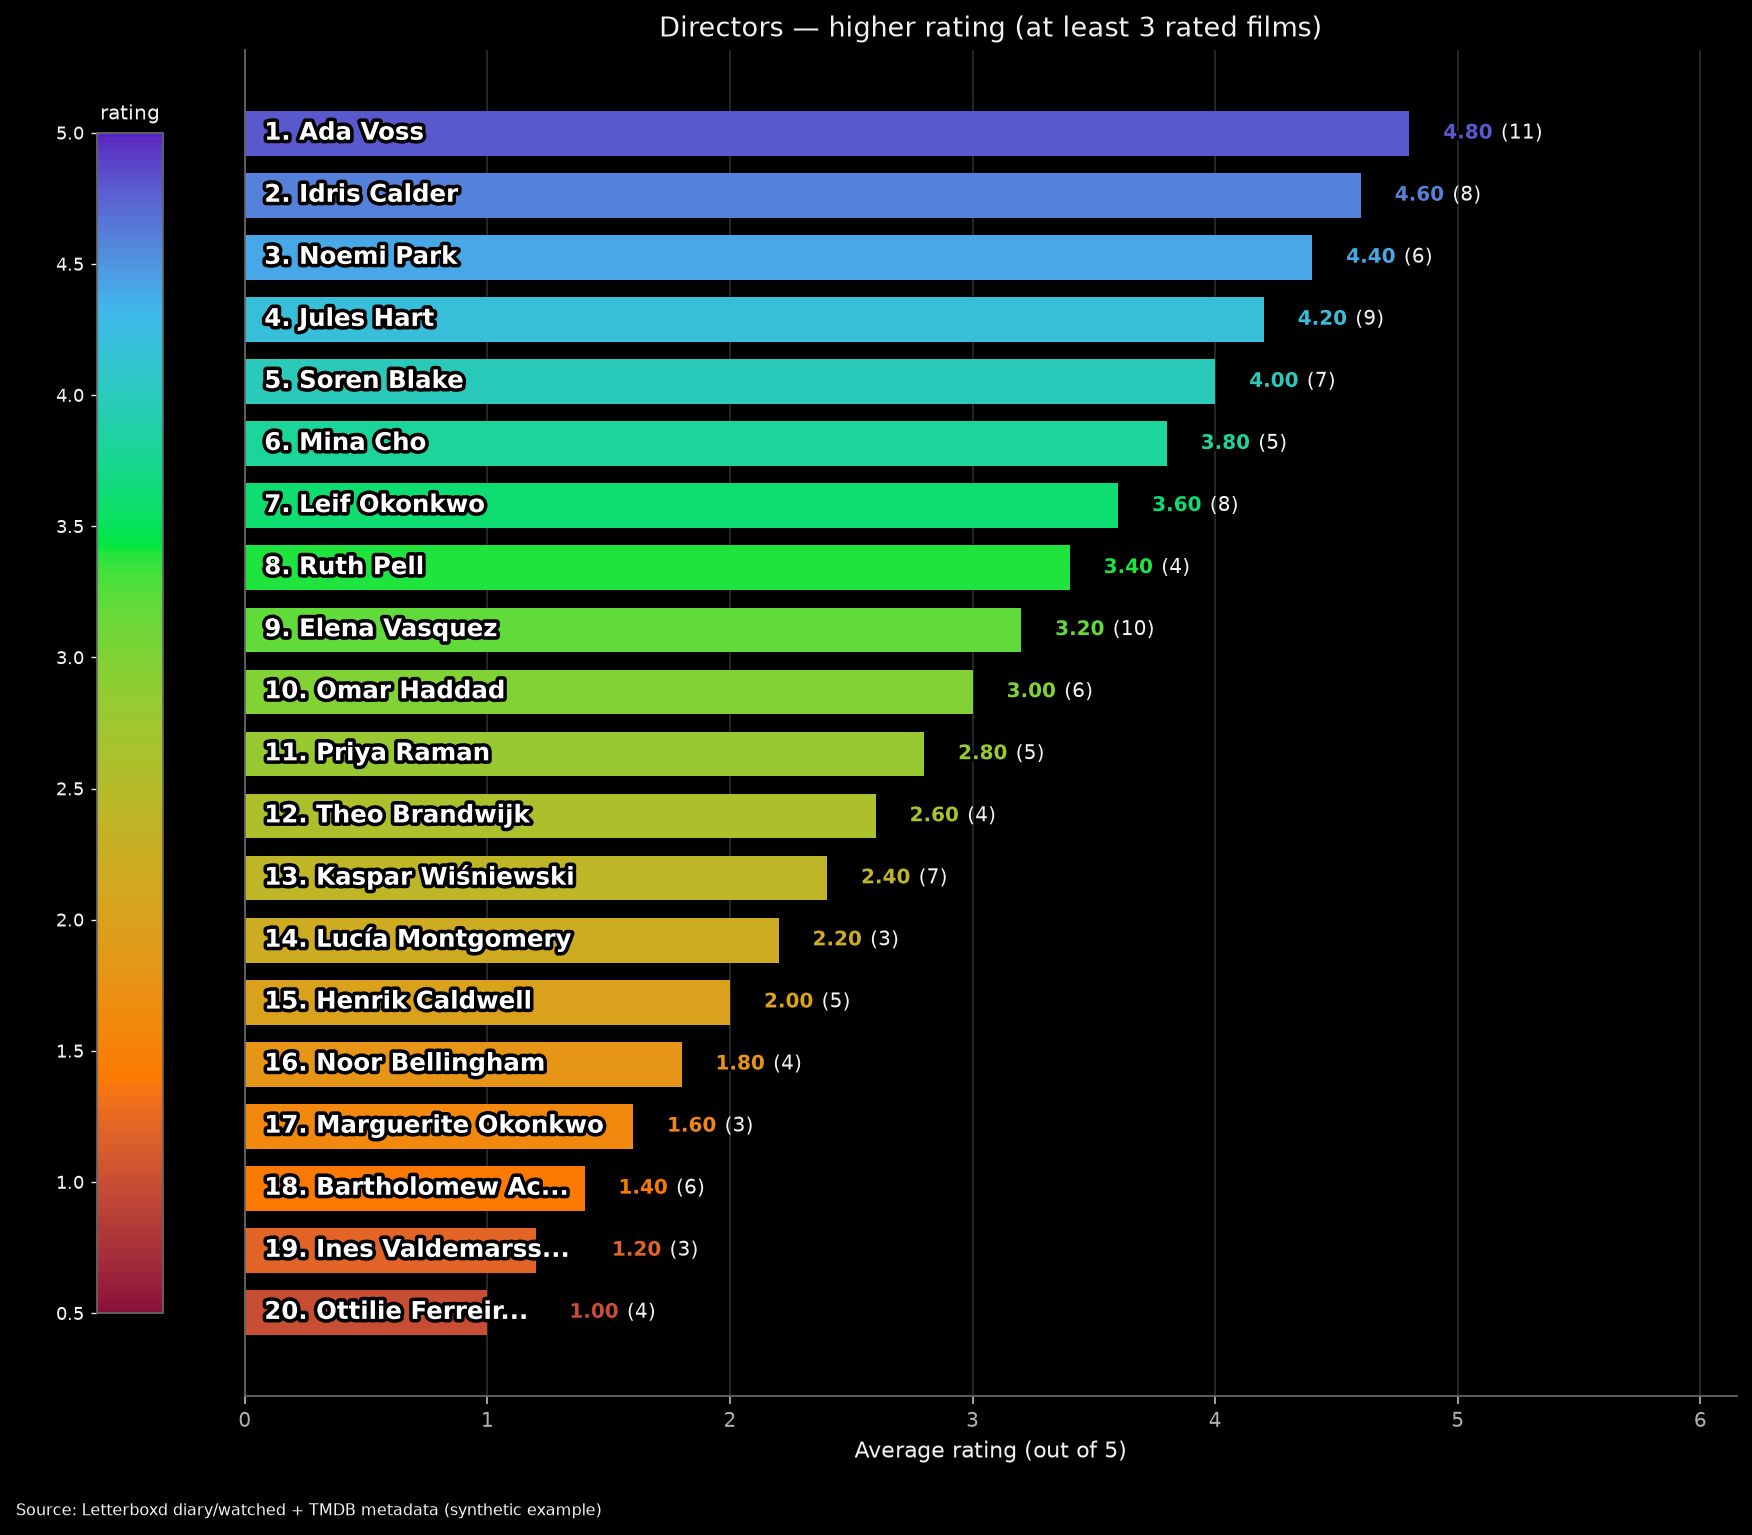
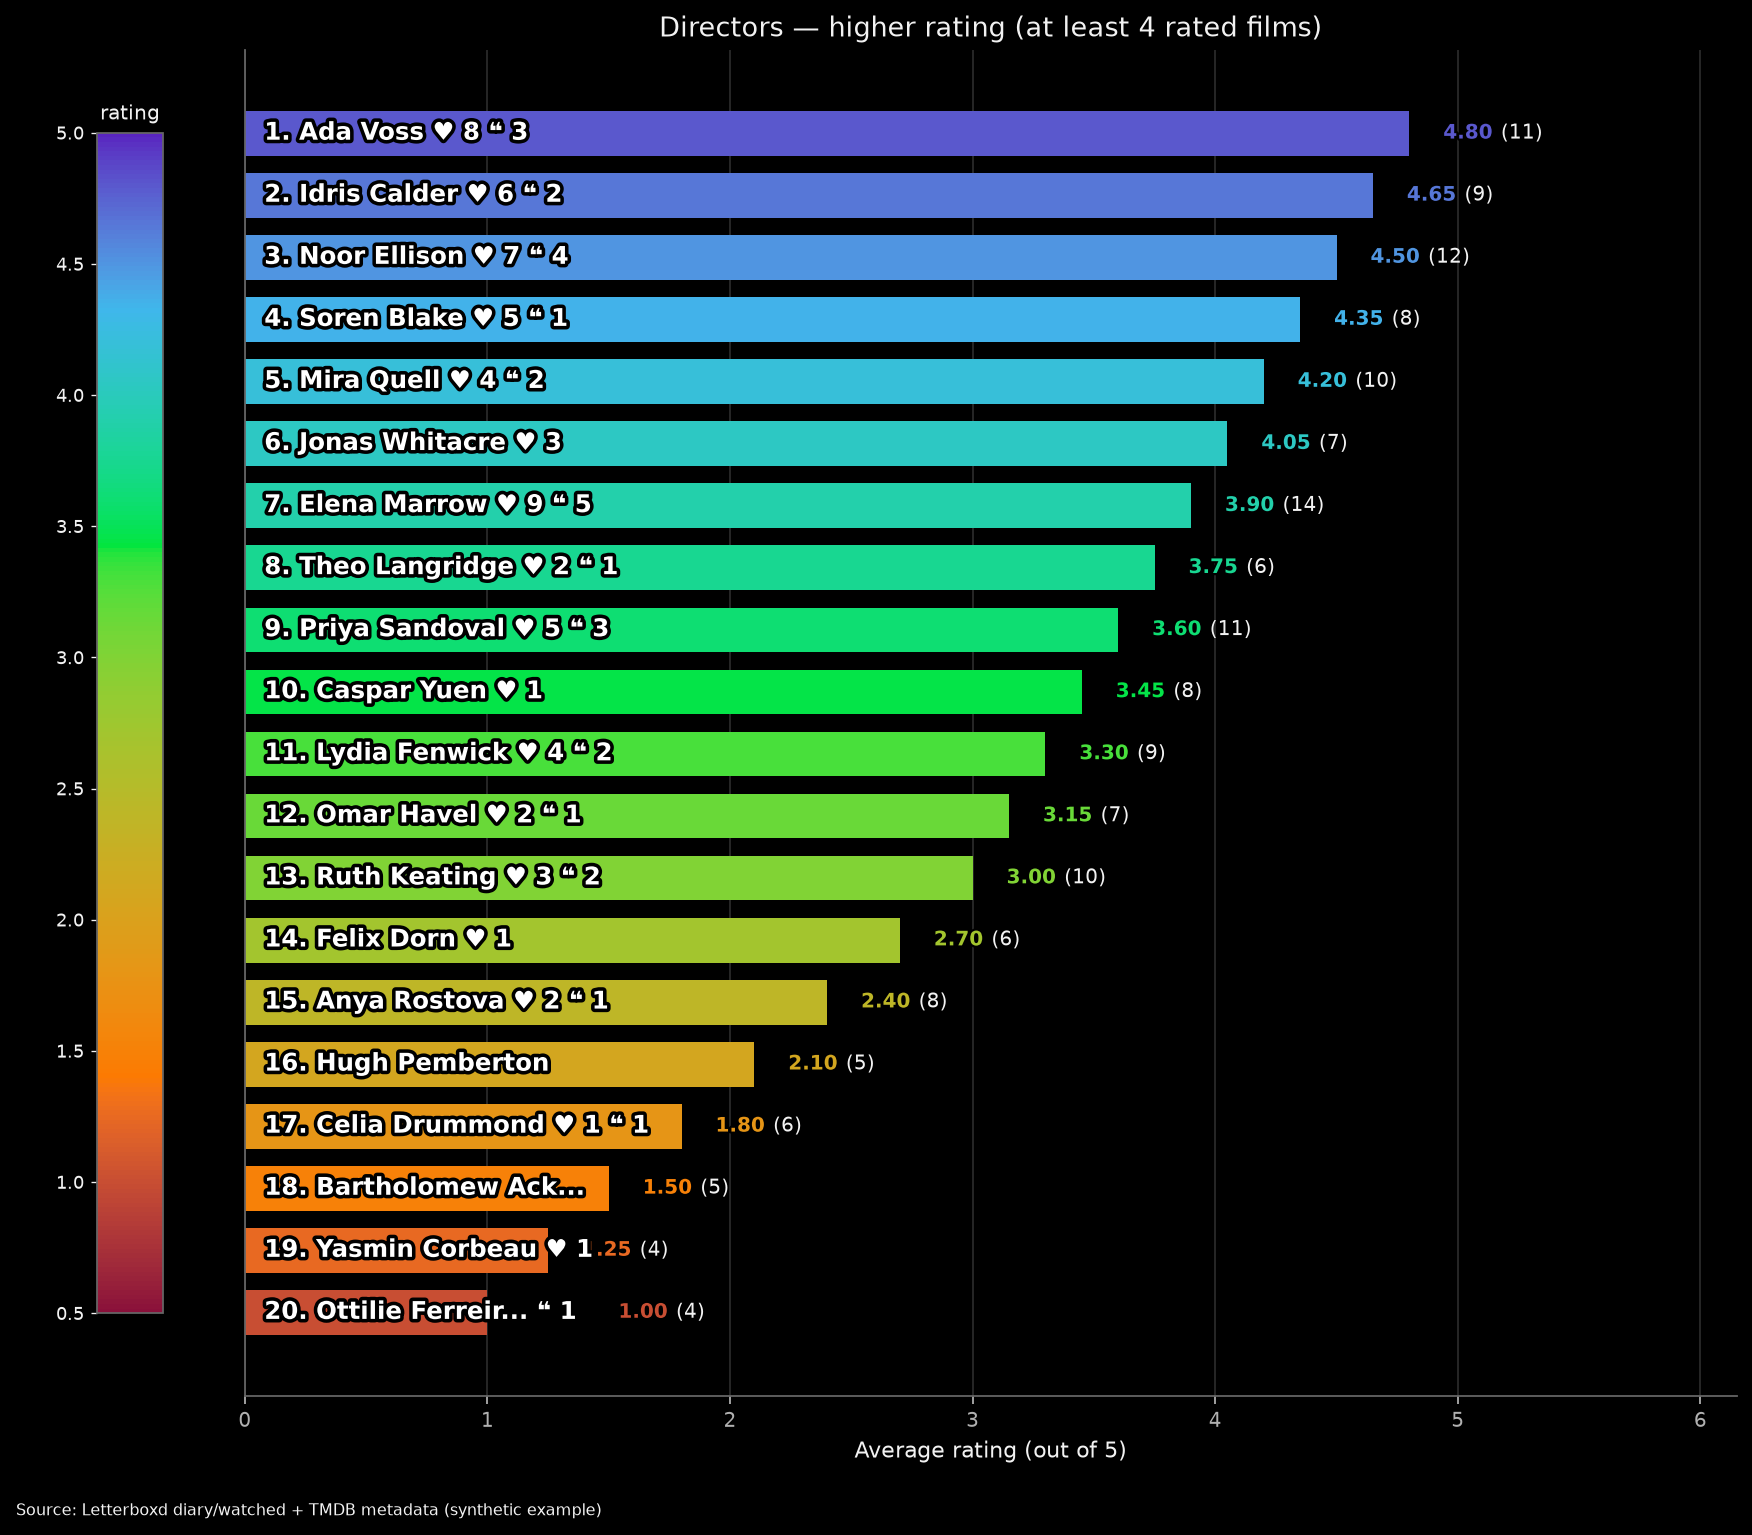
Refresh README chart gallery to match live rendering.
Regenerate synthetic sample PNGs with current tip labels (count + avg,
♥ / ❝), Most liked / Most reviewed side panels, No date charcoal stacks,
and the default threshold of 4. Update captions under What it produces.

Changed region(s): [[0.1233, 0.0612, 0.863, 0.8573], [0.6164, 0.5205, 0.6473, 0.5511], [0.5856, 0.5511, 0.6164, 0.5818]]

diff --git a/README.md b/README.md
@@ -12,45 +12,45 @@ You send the ZIP from Letterboxd → Settings → Import & Export → Export You
 
 *The wizard asks one question at a time. Tap a button or type a reply.*
 
-![Bar chart of film watches per year, each bar labelled with its count and a bold colored average rating](docs/images/watches-by-year.png)
+![Bar chart of film watches per year; tips show ♥ / ❝ counts, then count and a bold colored average](docs/images/watches-by-year.png)
 
-*Watches per year, with the count and the bold colored average rating above each bar. These five years run blue-violet, teal, green, yellow, and red.*
+*Watches per year. Above each bar: `♥ N ❝ M` when likes or reviews fall in that year, then the white count and the bold colored average. Five years use the even palette midpoints (not the three logo knots alone).*
 
-![Weekday and month bar charts stacked by watch year](docs/images/weekday-month-by-year.png)
+![Weekday and month bar charts stacked by watch year, with Most liked and Most reviewed side lists](docs/images/weekday-month-by-year.png)
 
-*When you watch: weekdays and months, stacked by watch year in the same year colors.*
+*When you watch: weekdays and months, stacked by watch year. Tips are the same count + average pair, with `♥` / `❝` on a line above. The right column is Watch year, then **Most liked weekdays** / **Most liked months**, then **Most reviewed** for each.*
 
 ![Horizontal bars of the best-rated release years with averages and rated-film counts](docs/images/release-years-higher-rating.png)
 
-*Release years with the highest average rating, among years with at least 4 rated films. Bar color follows the rating scale on the left.*
+*Release years with the highest average rating, among years with at least 4 rated films. Bar color follows the rating scale on the left; the tip is the bold colored mean and `(n)` unique rated films.*
 
-![Directors with the lowest average rating; short bars show the first 15 letters of the name with an ellipsis](docs/images/directors-lower-rating.png)
+![Directors with the lowest average rating; short bars overflow fifteen letters; ♥ / ❝ counts sit in the name](docs/images/directors-lower-rating.png)
 
-*Directors with the lowest average rating. A bar too short for 15 letters shows the first 15 and an ellipsis.*
+*Directors with the lowest average rating (at least 4 rated films). A bar too short for 15 letters shows the first 15 and an ellipsis. Liked / reviewed counts appear as `♥ N` / `❝ M` beside the name when N or M is above zero.*
 
-![Twenty directors from a 4.80 average down to 1.00, on one smooth scale from purple to burgundy](docs/images/directors-higher-rating-20.png)
+![Twenty directors from a 4.80 average down to 1.00, with ♥ / ❝ counts and a smooth purple-to-burgundy scale](docs/images/directors-higher-rating-20.png)
 
-*A top 20 across the rating scale: one smooth blend from purple at 4.80, through logo blue, green, and orange, to burgundy at 1.00. The three shortest bars show 15 letters and an ellipsis past the bar, with the same gap before the rating as after a normal bar.*
+*A top 20 across the rating scale (at least 4 rated films): one smooth blend from purple at 4.80, through logo blue, green, and orange, to burgundy at 1.00. Short bars overflow fifteen letters; `♥ N` / `❝ M` sit in the label when present.*
 
-![Line chart of average rating by month, with a colored dot on each month](docs/images/average-rating-by-month.png)
+![Line chart of average rating by month, with a colored dot, mean above, and (n) below](docs/images/average-rating-by-month.png)
 
-*Average rating over the watch months: a line, and a dot colored on the rating scale.*
+*Average rating over the watch months: a line, a dot colored on the rating scale, the mean above the marker, and `(n)` rated diary rows below it.*
 
 ![Line chart of films watched per month, with dots and a dashed mean](docs/images/viewing-pace.png)
 
-*Viewing pace by month. The dashed line is the mean.*
+*Viewing pace by month. The dashed line is the mean. Pace charts stay unlabeled (no count/avg tip).*
 
-![Two stacked bar charts: films by release decade, and how ratings are distributed](docs/images/extra-stats-decade-rating.png)
+![Two stacked bar charts: films by release decade, and rating distribution with No date](docs/images/extra-stats-decade-rating.png)
 
-*Release decade (catalog hits) and rating distribution (dated diary ratings plus undated rated catalog under No date). Color is the watch year.*
+*Release decade (catalog hits) and rating distribution (dated diary ratings plus undated rated catalog under **No date**). Watch years color the stacks; **No date** is the logo charcoal gradient (top→bottom on these columns). Decade tips show `♥` / `❝`, count, and average; rating tips are bold `NN.NN%` plus `(count)`. **Most liked** and **Most reviewed** sit under the Watch year legend.*
 
-![Horizontal bars of watches by genre, stacked by watch year](docs/images/watches-by-genre.png)
+![Horizontal bars of watches by genre, stacked by watch year, with No date and Most liked / Most reviewed](docs/images/watches-by-genre.png)
 
-*Watches by genre, stacked by watch year.*
+*Watches by genre (catalog hits), stacked by watch year, with undated rows in the **No date** charcoal segment (left→right on horizontal bars). Tips are count + average + inline `♥ N` / `❝ M`. The side panel lists **Most liked** and **Most reviewed** under Watch year.*
 
-![Horizontal bars of films that appear more than once, stacked by watch year](docs/images/top-rewatches.png)
+![Horizontal bars of films that appear more than once, with ♥ / ❝ on titles](docs/images/top-rewatches.png)
 
-*Films logged more than once, stacked by watch year. The tip average is the mean of every rated diary row for that film (rewatches included), not the usual unique-film rating.*
+*Films logged more than once, stacked by watch year. Titles append `♥` / `❝` when liked or reviewed. The tip is count + average (mean of every rated diary row for that film, rewatches included). **Most liked** / **Most reviewed** sit under the Watch year legend.*
 
 ## Commands
 
